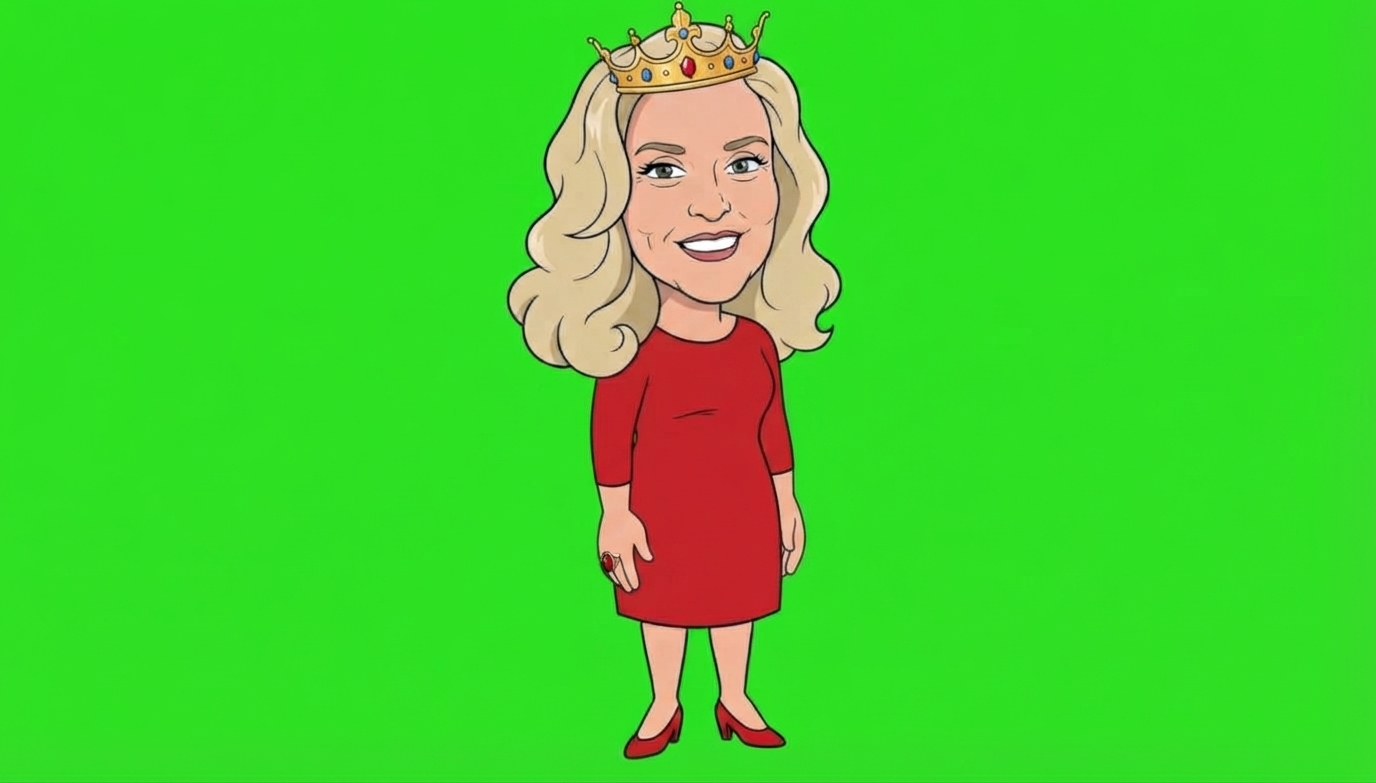
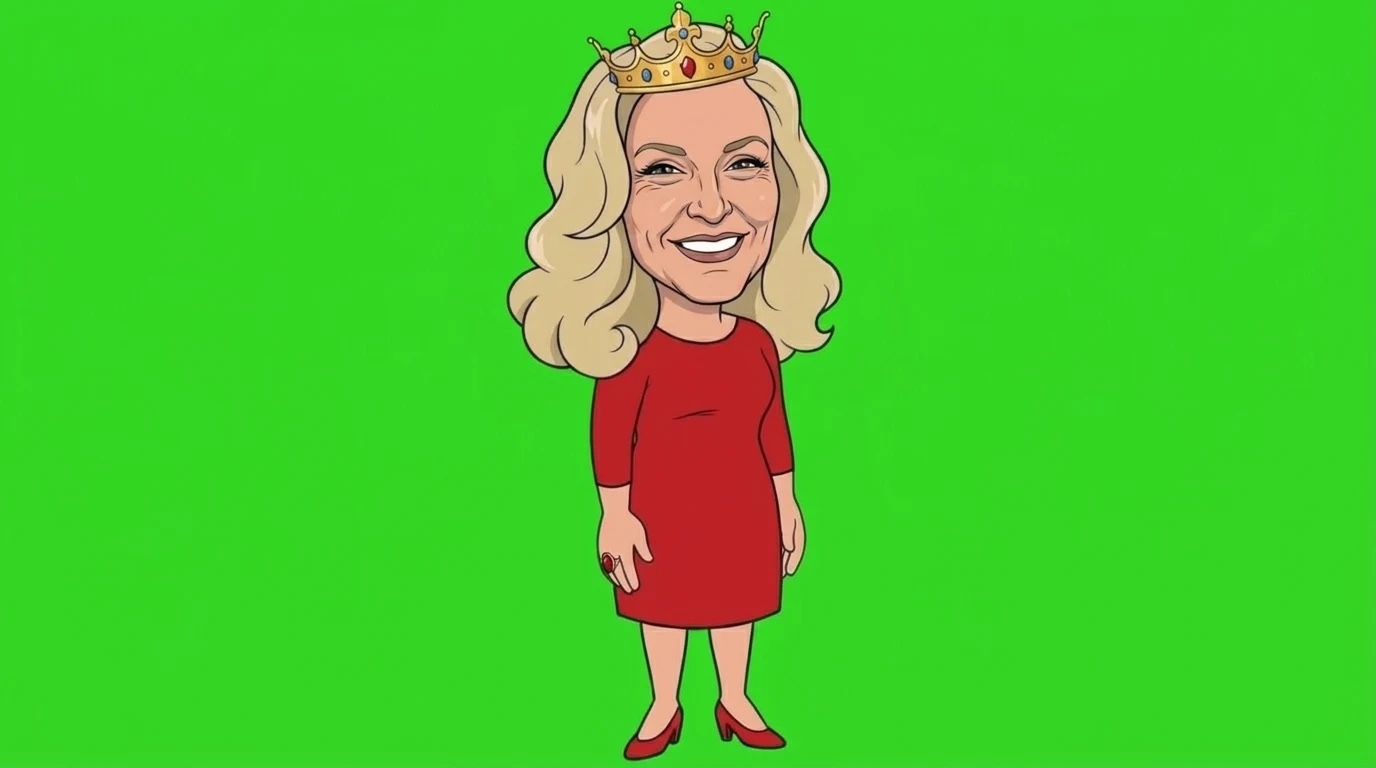
Retratos: Teresa v2 (70 anos) e Tininha
- Teresa: substitui o retrato por teresa_v2 (mulher de setenta anos, coroa
  dourada, cabelo loiro ondulado, vestido vermelho), alinhado com a voz de
  setenta anos já aprovada. Convertido de webp para o nome canónico
  `teresa-guilhermina-i-de-portugal.jpg` (o manifest e o backend leem o nome
  e o mime do ficheiro).
- Tininha: acrescenta o retrato que faltava (`tininha.jpg`, já referido no
  manifest e na ficha do frontend): loira de bob, vestido branco com capa e
  toucado alto de pontas prateadas. Ficha de desenvolvimento atualizada
  (retrato feito) e ficha visual alinhada com o retrato.
- Verificado: /characters serve os dois ficheiros como image/jpeg e
  loadDiskRefs carrega-os como referência (só a Perpétua continua sem foto).

Changed region(s): [[0.3438, 0.0312, 0.625, 1.0], [0.4375, 0.5312, 0.4688, 0.5625], [0.375, 0.1562, 0.4062, 0.1875]]

diff --git a/context/characters/dev/tininha.md b/context/characters/dev/tininha.md
@@ -1,22 +1,24 @@
 # TININHA — em desenvolvimento
 
 ## Estado atual
-- 9.ª personagem do canon (frontend + manifest). Sem retrato.
+- 9.ª personagem do canon (frontend + manifest). Com retrato (`tininha.jpg`).
 - Voz provisória da bíblia: doce superior, institucional, venenosa.
 - Catchphrase: "Ainda sei o lugar das estacas."
 - Dinâmicas definidas: obedece ao Capitão sorrindo; ódio recíproco com
   Guilhermina; Flávio Furtivo como único leal (que vaza para os dois lados).
 
 ## Em falta
-1. **Retrato** (CRIAR, nunca foto real): executiva loira, cabelo louro
-   comprido liso, fato de poder justo, brincos statement, sorriso de
-   câmara que não chega aos olhos.
+1. **Retrato** (CRIAR, nunca foto real): a descrição antiga (executiva loira,
+   cabelo comprido liso, fato de poder) foi substituída pelo retrato aprovado:
+   loira de bob, vestido branco com capa curta, toucado alto de pontas prateadas,
+   sorriso de câmara que não chega aos olhos. Guardado como `tininha.jpg` e
+   alinhado com a ficha visual no frontend.
 2. **Voz em sala**: confirmar registo, gatilhos (quando racha a doçura?),
    frases-tipo além das duas existentes.
 3. **Placar "TVI Estacas"**: já existe como asset de gozo
    (`placar-tvi-estacas.jpg`) — ligar aos episódios dela.
 
 ## Próximos passos
-- [ ] Gerar/aprovar retrato → guardar como `tininha.jpg`
+- [x] Gerar/aprovar retrato → guardar como `tininha.jpg`
 - [ ] Fechar voz em sala
 - [ ] Remover esta ficha (passa a canon completo)

diff --git a/context/characters/dev/README.md b/context/characters/dev/README.md
@@ -6,4 +6,4 @@ estiver resolvido, a personagem sai desta pasta para o canon completo
 
 - `perpetua.md` — sem retrato, voz provisória.
 - `patribunal.md` — com retrato, voz provisória.
-- `tininha.md` — sem retrato, voz provisória.
+- `tininha.md` — com retrato, voz provisória.
